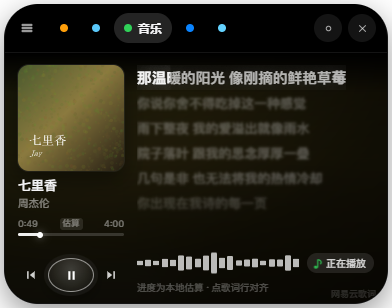
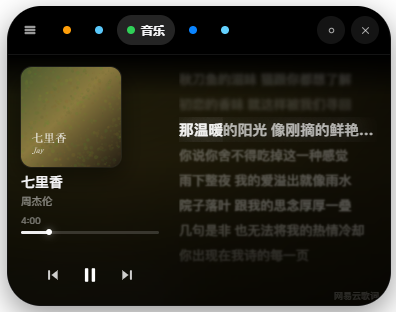
feat(music): 歌词滚动把当前句放到第 3 行，上面两行留给"已唱过去的两句"
需求：当前句不要顶在最上面，第 1、2 行显示刚唱过的两句，当前句落在第 3 行。

改动只有一处（`syncOffset`）：位移从 `i * 行高` 换成 `max(0, i - 2) * 行高`，
也就是当前句始终停在第 3 行、上方留两行的上下文；还没唱到第 3 句时（i < 2）没有那么多
"过去"，就不留空白，贴着顶部走。行高固定，滚动算术不变。

实测（停在第 6 句，索引 5）：
- 轨道 translateY = -75（= 3 行 × 25px，即 5 - 2 = 3）✅
- 当前句在窗口内 top=50px → 第 3 行 ✅
- 上方可见正好 2 行（「我用几行字…」「秋刀鱼的滋味…」的直接前两句）✅
- 下方 4 行渐隐，底部遮罩不变 ✅

## 同时提交你在工作区里改的样式
（只提交，未做任何改动）
- 去掉位置时间与「估算」角标，只留总时长
- 去掉 wave + 播放状态胶囊、去掉估算提示
- 左栏加宽 106 → 138、间距 13 → 20、海报 106 → 100、歌名 13 → 14
- 控制放大（26 → 28、主键 34 → 38、图标 16/15 → 20/24）、去掉主键的环形描边与发光
- 其他句模糊 1.25 → 0.8px

## 配图
docs/images/app-music.png 按当前 UI 重新生成。

diff --git a/src/apps/music/MusicApp.vue b/src/apps/music/MusicApp.vue
@@ -33,8 +33,8 @@
 
           <div class="prog">
             <div class="times">
-              <span>{{ fmt(position) }}</span>
-              <em v-if="estimated" class="est">估算</em>
+              <!-- <span>{{ fmt(position) }}</span>
+              <em v-if="estimated" class="est">估算</em> -->
               <span>{{ fmt(duration) }}</span>
             </div>
             <div class="bar">
@@ -105,7 +105,7 @@
           </div>
 
           <!-- wave + 播放状态 -->
-          <div class="wavebar">
+          <!-- <div class="wavebar">
             <div class="wave" :class="{ on: playing && !still }" aria-hidden="true">
               <i v-for="(h, i) in WAVE" :key="i" :style="{ '--h': h, '--i': i }" />
             </div>
@@ -113,11 +113,13 @@
               <span class="badge-note" aria-hidden="true">♪</span>
               {{ playing ? '正在播放' : '已暂停' }}
             </span>
-          </div>
+          </div> -->
 
           <!-- 拿不到进度时必须说清"为什么"，并提示"能点歌词对轴" ——
-               估算时钟是从检测到这首歌开始走的，播到一半才打开时初始就是偏的。 -->
-          <div class="hint" v-if="hint">{{ hint }}</div>
+               估算时钟是从检测到这首歌开始走的，播到一半才打开时初始就是偏的。
+               说了很多次了不需要提示
+               -->
+          <!-- <div class="hint" v-if="hint">{{ hint }}</div> -->
         </section>
       </div>
 
@@ -212,9 +214,13 @@ function rowHeight() {
   return (el && el.offsetHeight) || ROW_FALLBACK
 }
 
+// 当前句不放在顶部：上面留两行给"已经唱过去的两句"，也就是当前句落在第 3 行。
+// 还没唱到第 3 句时（i < 2）没有那么多过去，就不留空白，贴着顶部走。
+const LEAD_ROWS = 2
+
 function syncOffset() {
   const i = activeIndex.value
-  offset.value = i <= 0 ? 0 : i * rowHeight()
+  offset.value = Math.max(0, i - LEAD_ROWS) * rowHeight()
 }
 
 onMounted(() => {
@@ -344,12 +350,12 @@ function alignTo(idx) {
   flex: 1;
   min-height: 0;
   display: flex;
-  gap: 13px;
+  gap: 20px;
 }
 
 /* ================= 左栏 ================= */
 .rail {
-  width: 106px;
+  width: 138px;
   flex-shrink: 0;
   display: flex;
   flex-direction: column;
@@ -357,8 +363,8 @@ function alignTo(idx) {
 }
 
 .poster {
-  width: 106px;
-  height: 106px;
+  width: 100px;
+  height: 100px;
   flex-shrink: 0;
   border-radius: 11px;
   overflow: hidden;
@@ -384,7 +390,7 @@ function alignTo(idx) {
 
 .title {
   margin-top: 2px;
-  font-size: 13px;
+  font-size: 14px;
   font-weight: 600;
   color: #f5f5f7;
   line-height: 1.25;
@@ -467,8 +473,8 @@ function alignTo(idx) {
 }
 
 .ctl {
-  width: 26px;
-  height: 26px;
+  width: 28px;
+  height: 28px;
   border: none;
   border-radius: 50%;
   background: transparent;
@@ -496,27 +502,22 @@ function alignTo(idx) {
 
 /* 主按钮：环形描边 + 玻璃质感 */
 .ctl.main {
-  width: 34px;
-  height: 34px;
+  width: 38px;
+  height: 38px;
   color: #fff;
-  border: 1.5px solid rgba(255, 255, 255, 0.5);
-  background: radial-gradient(circle at 50% 34%, rgba(255, 255, 255, 0.2), rgba(255, 255, 255, 0.06) 72%);
-  box-shadow: 0 0 0 4px rgba(255, 255, 255, 0.05), 0 6px 16px rgba(0, 0, 0, 0.38);
 }
 
-.ctl.main:hover {
-  background: radial-gradient(circle at 50% 34%, rgba(255, 255, 255, 0.3), rgba(255, 255, 255, 0.1) 72%);
-  box-shadow: 0 0 0 5px rgba(255, 255, 255, 0.08), 0 6px 18px rgba(0, 0, 0, 0.42);
-}
+
+
 
 .ctl-ico {
-  width: 16px;
-  height: 16px;
+  width: 20px;
+  height: 20px;
 }
 
 .ctl.main .ctl-ico {
-  width: 15px;
-  height: 15px;
+  width: 24px;
+  height: 24px;
 }
 
 .ctl-ico.flip {
@@ -525,7 +526,7 @@ function alignTo(idx) {
 
 /* ================= 右栏 ================= */
 .main {
-  flex: 1;
+  
   min-width: 0;
   min-height: 0;
   display: flex;
@@ -575,7 +576,7 @@ function alignTo(idx) {
   font-weight: 500;
   color: rgba(255, 255, 255, 0.72);
   opacity: 0.42;
-  filter: blur(1.25px);
+  filter: blur(0.8px);
   transform: translateY(1px);
 }
 
